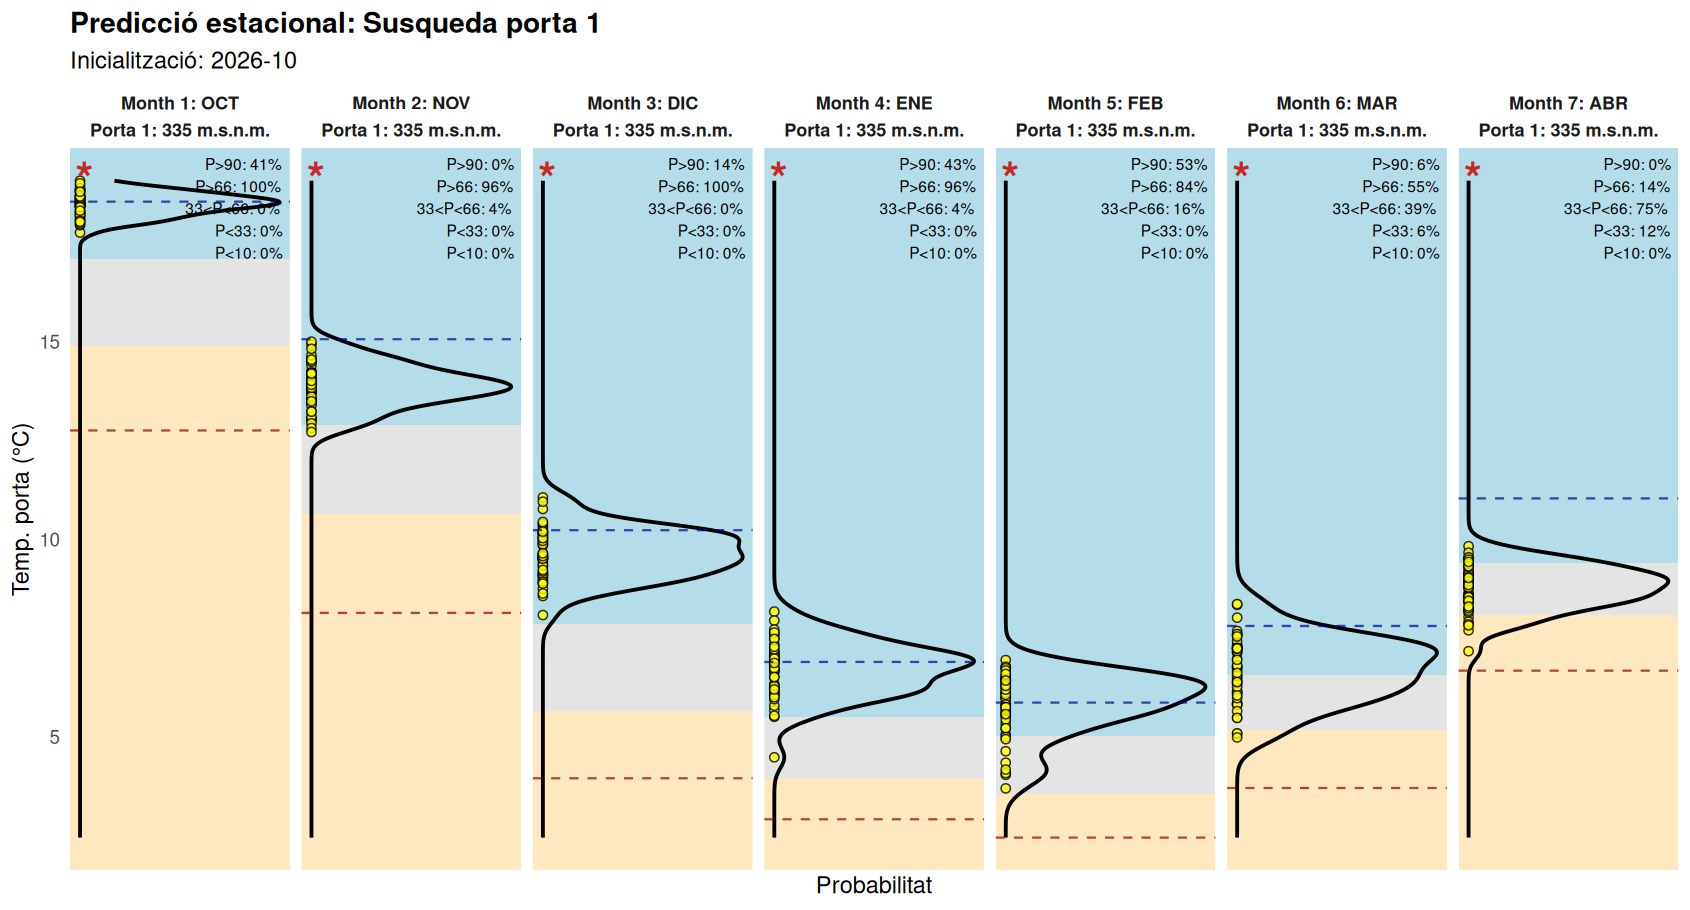
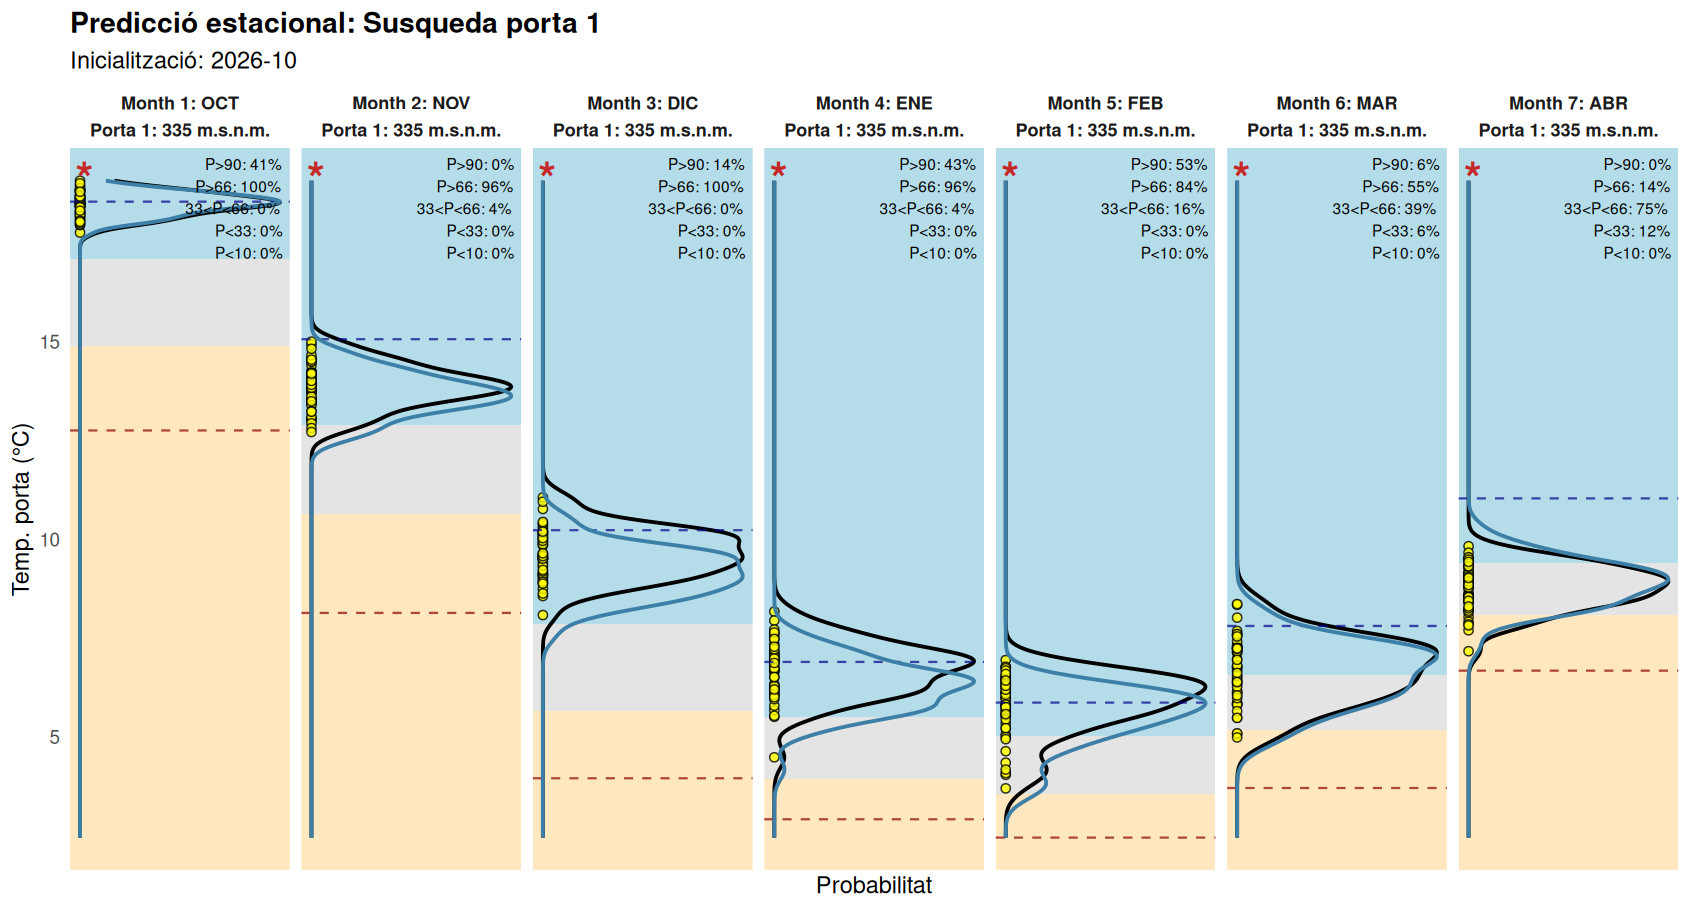
Extend QM bias correction to river/reservoir temperature; consolidate residence time to the pulse-tracer method

diff --git a/index.html b/index.html
@@ -147,13 +147,13 @@ header p{font-size:12px;opacity:0.7}
   <div class="modal-box">
     <button class="modal-close" onclick="closeMethod()" aria-label="Tanca">&times;</button>
     <h2>Per què hi ha dues corbes al gràfic?</h2>
-    <p>Cada panell mostra la distribució de probabilitat (corba negra, <b>KDE ensemble</b>) de 51 escenaris de clima possibles, produïts amb el model estacional ECMWF SEAS5 i convertits a cabal/volum amb el model hidrològic GR4J. Per a l'<b>entrada d'aigua al pantà de Sau</b> (i per tant per al volum Sau–Susqueda) hi ha una segona corba blava: la mateixa predicció, però corregida del biaix sistemàtic que té aquest mètode.</p>
+    <p>Cada panell mostra la distribució de probabilitat (corba negra, <b>KDE ensemble</b>) de 51 escenaris de clima possibles, produïts amb el model estacional ECMWF SEAS5. Als punts del mapa derivats de la conca del Ter a Sau — <b>cabal d'entrada</b>, <b>volum Sau–Susqueda</b>, <b>temperatura del riu a Sau</b> i <b>temperatura a les portes dels embassaments de Sau i Susqueda</b> — hi ha una segona corba blava: la mateixa predicció, però corregida del biaix sistemàtic que té el SEAS5 en aquesta conca.</p>
 
-    <h3>El problema: un biaix sec sistemàtic</h3>
-    <p>Comparant 26 anys de predicció (1995–2020) amb les dades observades, la predicció operacional de cabal a Sau és sistemàticament massa seca: <b>entre un −28% i un −54%</b> per sota del que de debò va passar, i pitjor a l'estiu. Un terç d'aquest error ve de la predicció de clima SEAS5 (massa seca i massa càlida a l'estiu respecte a ERA5), i la resta del propi model GR4J.</p>
+    <h3>El problema: un biaix sistemàtic en la predicció de clima</h3>
+    <p>Comparant 26 anys de predicció (1995–2020) amb les dades observades, la predicció operacional de cabal a Sau és sistemàticament massa seca: <b>entre un −28% i un −54%</b> per sota del que de debò va passar, i pitjor a l'estiu. Un terç d'aquest error ve de la predicció de clima SEAS5 (massa seca i massa càlida a l'estiu respecte a ERA5), i la resta del propi model GR4J. Aquesta mateixa temperatura prevista massa càlida a l'estiu afecta també la temperatura del riu i dels embassaments, que depenen directament de la temperatura de l'aire.</p>
 
     <h3>La correcció: quantile mapping</h3>
-    <p>S'aplica un <i>quantile mapping</i> empíric a la precipitació i temperatura de SEAS5 abans d'entrar-les al GR4J: per a cada mes de l'any i cada horitzó (mes 1 vs. mesos 2–7), es transforma la distribució estadística del clima previst perquè coincideixi amb la distribució real observada (ERA5), any per any, sense tocar el model hidrològic. Els anys d'entrenament (1995–2020) s'avaluen amb <i>leave-one-year-out</i> perquè la validació no estigui esbiaixada.</p>
+    <p>S'aplica un <i>quantile mapping</i> empíric a la precipitació i temperatura de SEAS5: per a cada mes de l'any i cada horitzó (mes 1 vs. mesos 2–7), es transforma la distribució estadística del clima previst perquè coincideixi amb la distribució real observada (ERA5), any per any, sense tocar els models hidrològics. Els anys d'entrenament (1995–2020) s'avaluen amb <i>leave-one-year-out</i> perquè la validació no estigui esbiaixada. Aquesta mateixa temperatura de l'aire corregida alimenta el model de temperatura del riu (regressió lineal) i el model GLM dels embassaments (Sau i Susqueda comparteixen la mateixa sèrie de temperatura de l'aire).</p>
 
     <h3>Comparació de skill: operacional vs. corregida</h3>
     <p class="note">NSE: encert respecte a la mitjana observada (1 = perfecte, 0 = tan bo com predir sempre la mitjana, negatiu = pitjor que la mitjana). CRPSS: encert probabilístic respecte a la climatologia (igual escala). Mitjana sobre tots els mesos d'inicialització, 1995–2026.</p>
@@ -162,11 +162,11 @@ header p{font-size:12px;opacity:0.7}
       <tbody><tr><td colspan="6" style="text-align:center;color:#888780;padding:14px">Carregant…</td></tr></tbody>
     </table>
 
-    <h3>Un resultat important: millora el cabal, però no (encara) el volum</h3>
-    <p>La correcció millora clarament l'encert del <b>cabal d'entrada a Sau</b> a tots els horitzons — per exemple, l'NSE a 6 mesos puja de <b>&minus;0,42</b> (operacional, pitjor que predir sempre la mitjana) a <b>&minus;0,16</b>. Però, sorprenentment, el <b>volum combinat Sau–Susqueda</b> surt una mica <i>pitjor</i> amb la correcció, no millor: l'NSE a 6 mesos baixa de <b>0,34</b> a <b>0,15</b>, i a 7 mesos passa de tenir encert positiu (0,21) a no tenir-ne (&minus;0,04).</p>
-    <p>El motiu més probable: el biaix sec de la predicció operacional de cabal, per pura casualitat, compensava en part altres errors del balanç hídric (inclòs el fet que SEAS5 no va preveure la sequera real del 2022–24 amb prou antelació). En corregir només el cabal, aquesta compensació fortuïta desapareix. Per això es mostren totes dues corbes a cada gràfica: la corregida és la millor estimació del <i>cabal</i>, però l'operacional continua sent, de moment, la referència més fiable per al <i>volum de l'embassament</i> i per a les decisions de gestió.</p>
+    <h3>Un resultat important: ajuda la majoria de variables, però no totes</h3>
+    <p>La correcció millora clarament l'encert del <b>cabal d'entrada a Sau</b> a tots els horitzons (NSE a 6 mesos: de <b>&minus;0,42</b> a <b>&minus;0,16</b>), de la <b>temperatura del riu a Sau</b> (CRPSS passa de negatiu, pitjor que la climatologia, a positiu a tots els horitzons) i de la <b>temperatura a les tres portes de Sau</b> (petita millora consistent a tots els horitzons). Però el <b>volum combinat Sau–Susqueda</b> surt una mica <i>pitjor</i>, no millor (NSE a 6 mesos: de 0,34 a 0,15), i la <b>temperatura a les portes de Susqueda</b> tampoc millora — es manté igual o lleugerament pitjor a quasi tots els horitzons i les 4 portes.</p>
+    <p>El patró té sentit físic: Sau rep l'aigua i l'aire directament de la conca, així que corregir el biaix de SEAS5 l'ajuda de manera directa. Susqueda, en canvi, és aigües avall — la seva temperatura depèn sobretot de com surt l'aigua de Sau (cabal, temperatura, barreja), no de l'aire local, i el volum combinat integra el cabal corregit amb un pla de desembassament que, per pura casualitat, compensava en part el biaix sec operacional (inclòs el fet que SEAS5 no va preveure la sequera real del 2022–24 amb prou antelació). Per això es mostren totes dues corbes a cada gràfica: en els punts on la corregida guanya clarament, és la millor estimació; en volum i Susqueda, l'operacional continua sent, de moment, la referència més fiable.</p>
 
-    <p class="note">Correcció validada només per a l'entrada d'aigua a Sau (<code>Q_ter_sau</code>) i, per tant, pel volum combinat Sau–Susqueda (<code>V_ter_all</code>) — no (encara) per als altres punts del mapa. Mitjana sobre ~360 parells predicció–observació per horitzó, 1995–2026. Detalls complets a <code>seasonal/bias_correction/</code> al repositori.</p>
+    <p class="note">Correcció aplicada a l'aire previst sobre la conca de Sau i propagada des d'allà: cabal i volum (GR4J), temperatura del riu (regressió lineal) i temperatura dels embassaments (GLM, Sau i Susqueda comparteixen la mateixa sèrie d'aire). No validada per als altres punts del mapa (Ripoll, Gola del Ter, Tordera). Mitjana sobre ~85–370 parells predicció–observació per horitzó segons la variable (menys per a les portes més profundes, que només tenen aigua alguns mesos de l'any), 1995–2026. Detalls complets a <code>seasonal/bias_correction/</code> al repositori.</p>
   </div>
 </div>
 
@@ -266,12 +266,9 @@ const STATIONS = [
       { file: "reservoir_Tgate1_Sau.png",    label: "Temp. porta 1 Sau (384.5 m a.s.l.)" },
       { file: "reservoir_Tgate2_Sau.png",    label: "Temp. porta 2 Sau (399.0 m a.s.l.)" },
       { file: "reservoir_Tgate3_Sau.png",    label: "Temp. porta 3 Sau (413.5 m a.s.l.)" },
-      { file: "reservoir_Agegate1_Sau.png",  label: "Temps de residència porta 1 Sau (384.5 m a.s.l.)" },
-      { file: "reservoir_Agegate2_Sau.png",  label: "Temps de residència porta 2 Sau (399.0 m a.s.l.)" },
-      { file: "reservoir_Agegate3_Sau.png",  label: "Temps de residència porta 3 Sau (413.5 m a.s.l.)" },
-      { file: "reservoir_Peakgate1_Sau.png", label: "Temps fins al pic porta 1 Sau (384.5 m a.s.l.)" },
-      { file: "reservoir_Peakgate2_Sau.png", label: "Temps fins al pic porta 2 Sau (399.0 m a.s.l.)" },
-      { file: "reservoir_Peakgate3_Sau.png", label: "Temps fins al pic porta 3 Sau (413.5 m a.s.l.)" }
+      { file: "reservoir_Peakgate1_Sau.png", label: "Temps de residència porta 1 Sau (384.5 m a.s.l.)" },
+      { file: "reservoir_Peakgate2_Sau.png", label: "Temps de residència porta 2 Sau (399.0 m a.s.l.)" },
+      { file: "reservoir_Peakgate3_Sau.png", label: "Temps de residència porta 3 Sau (413.5 m a.s.l.)" }
     ]
   },
   {
@@ -285,14 +282,10 @@ const STATIONS = [
       { file: "reservoir_Tgate2_Susqueda.png",  label: "Temp. porta 2 Susqueda (319.0 m a.s.l.)" },
       { file: "reservoir_Tgate3_Susqueda.png",  label: "Temp. porta 3 Susqueda (303.0 m a.s.l.)" },
       { file: "reservoir_Tgate4_Susqueda.png",  label: "Temp. porta 4 Susqueda (287.0 m a.s.l.)" },
-      { file: "reservoir_Agegate1_Susqueda.png", label: "Temps de residència porta 1 Susqueda (335.0 m a.s.l.)" },
-      { file: "reservoir_Agegate2_Susqueda.png", label: "Temps de residència porta 2 Susqueda (319.0 m a.s.l.)" },
-      { file: "reservoir_Agegate3_Susqueda.png", label: "Temps de residència porta 3 Susqueda (303.0 m a.s.l.)" },
-      { file: "reservoir_Agegate4_Susqueda.png", label: "Temps de residència porta 4 Susqueda (287.0 m a.s.l.)" },
-      { file: "reservoir_Peakgate1_Susqueda.png", label: "Temps fins al pic porta 1 Susqueda (335.0 m a.s.l.)" },
-      { file: "reservoir_Peakgate2_Susqueda.png", label: "Temps fins al pic porta 2 Susqueda (319.0 m a.s.l.)" },
-      { file: "reservoir_Peakgate3_Susqueda.png", label: "Temps fins al pic porta 3 Susqueda (303.0 m a.s.l.)" },
-      { file: "reservoir_Peakgate4_Susqueda.png", label: "Temps fins al pic porta 4 Susqueda (287.0 m a.s.l.)" }
+      { file: "reservoir_Peakgate1_Susqueda.png", label: "Temps de residència porta 1 Susqueda (335.0 m a.s.l.)" },
+      { file: "reservoir_Peakgate2_Susqueda.png", label: "Temps de residència porta 2 Susqueda (319.0 m a.s.l.)" },
+      { file: "reservoir_Peakgate3_Susqueda.png", label: "Temps de residència porta 3 Susqueda (303.0 m a.s.l.)" },
+      { file: "reservoir_Peakgate4_Susqueda.png", label: "Temps de residència porta 4 Susqueda (287.0 m a.s.l.)" }
     ]
   },
   // ── Tordera basin ──
@@ -439,7 +432,13 @@ function parseCsv(text) {
     return row;
   });
 }
-const VAR_LABEL = { Q_ter_sau: "Cabal entrada Sau (m³/s)", V_ter_all: "Volum Sau–Susqueda (hm³)" };
+const VAR_LABEL = {
+  Q_ter_sau: "Cabal entrada Sau (m³/s)", V_ter_all: "Volum Sau–Susqueda (hm³)",
+  rivtemp_ter_sau: "Temperatura del riu a Sau (°C)",
+  rgate1_Sau: "Sau · porta 1, 384.5 m (°C)", rgate2_Sau: "Sau · porta 2, 399.0 m (°C)", rgate3_Sau: "Sau · porta 3, 413.5 m (°C)",
+  rgate1_Susqueda: "Susqueda · porta 1, 335.0 m (°C)", rgate2_Susqueda: "Susqueda · porta 2, 319.0 m (°C)",
+  rgate3_Susqueda: "Susqueda · porta 3, 303.0 m (°C)", rgate4_Susqueda: "Susqueda · porta 4, 287.0 m (°C)"
+};
 async function loadSkillTable() {
   const tbody = document.querySelector("#skillTable tbody");
   try {
